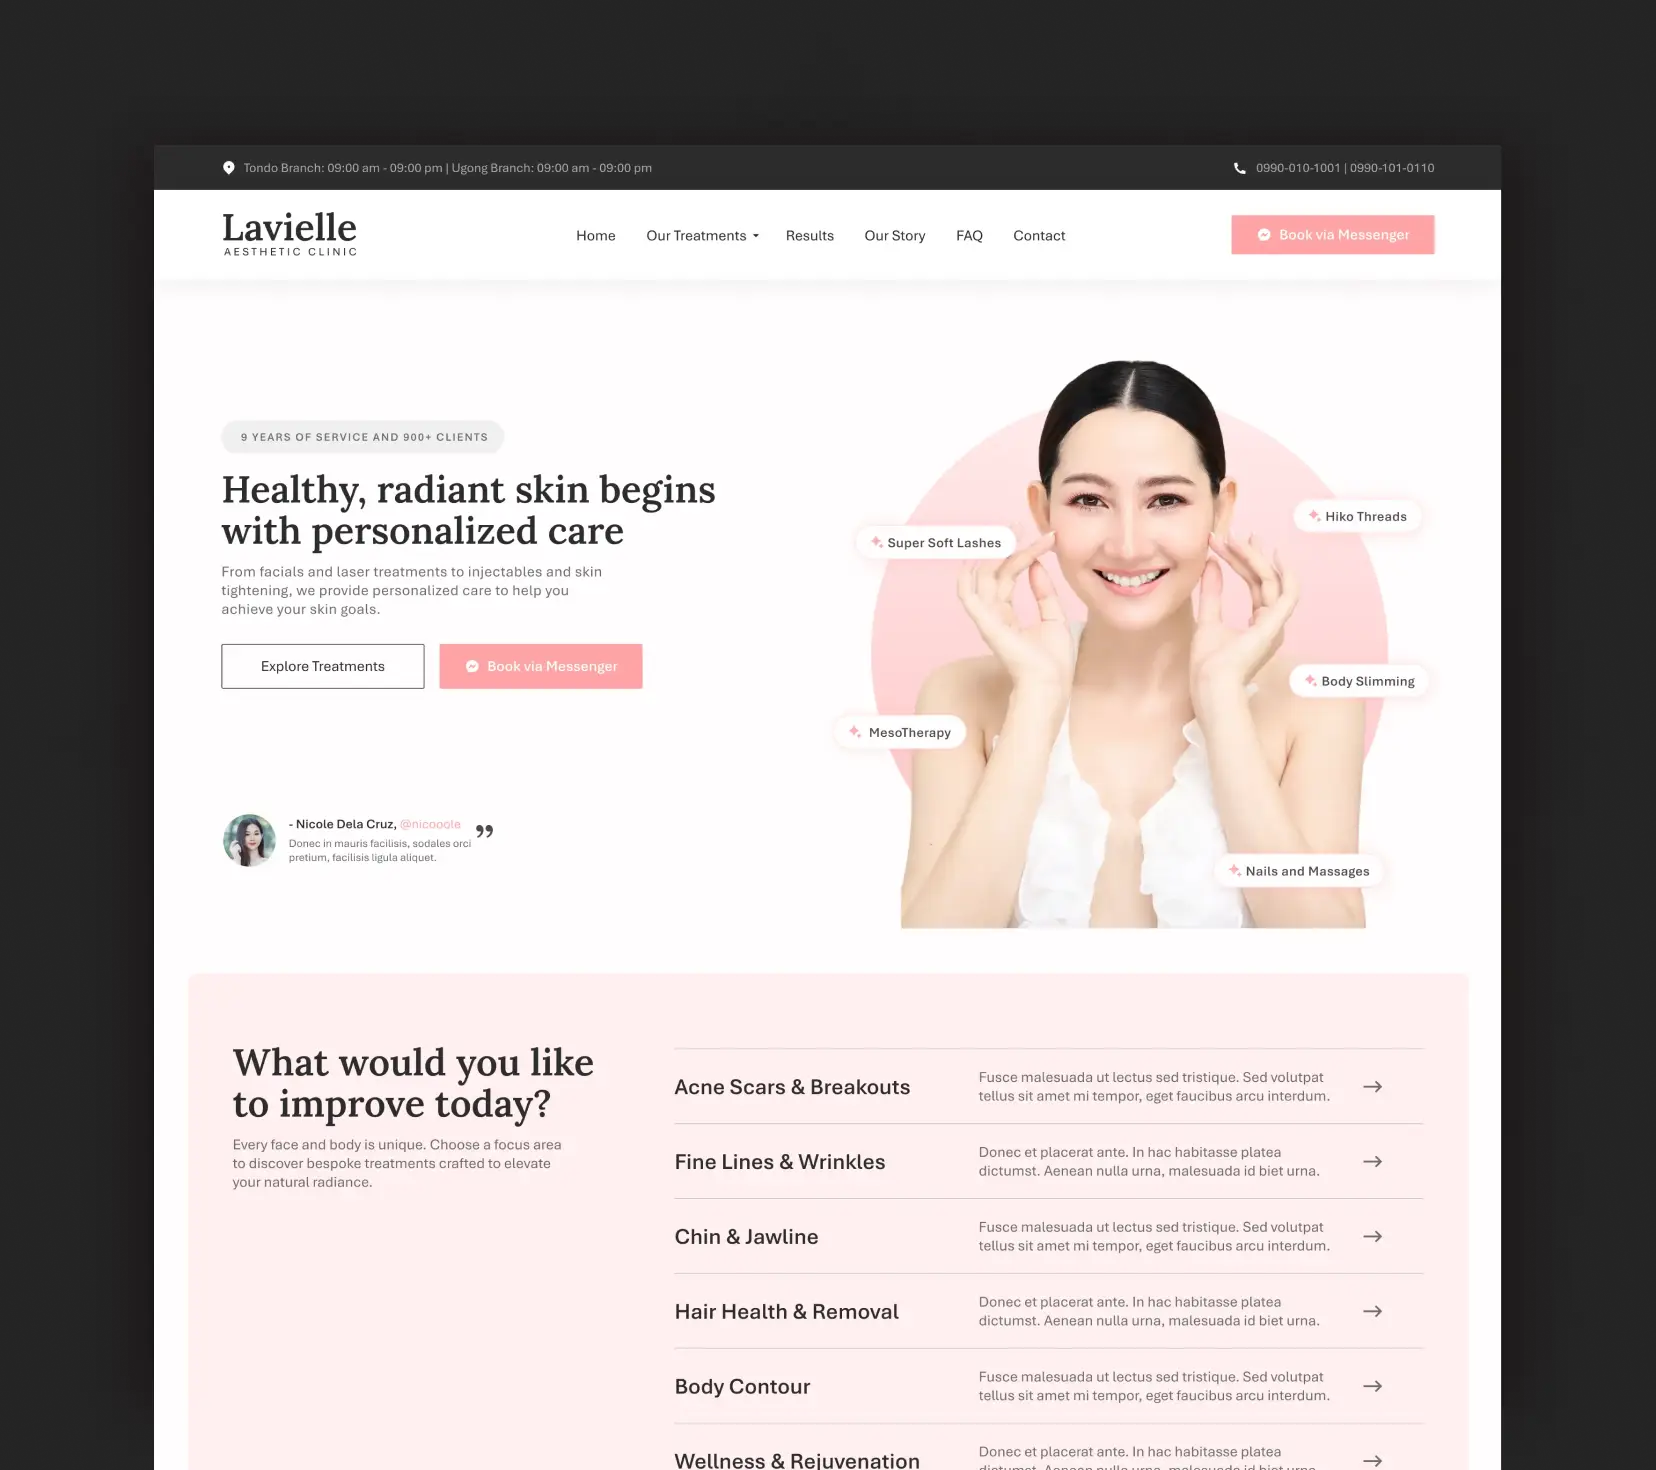
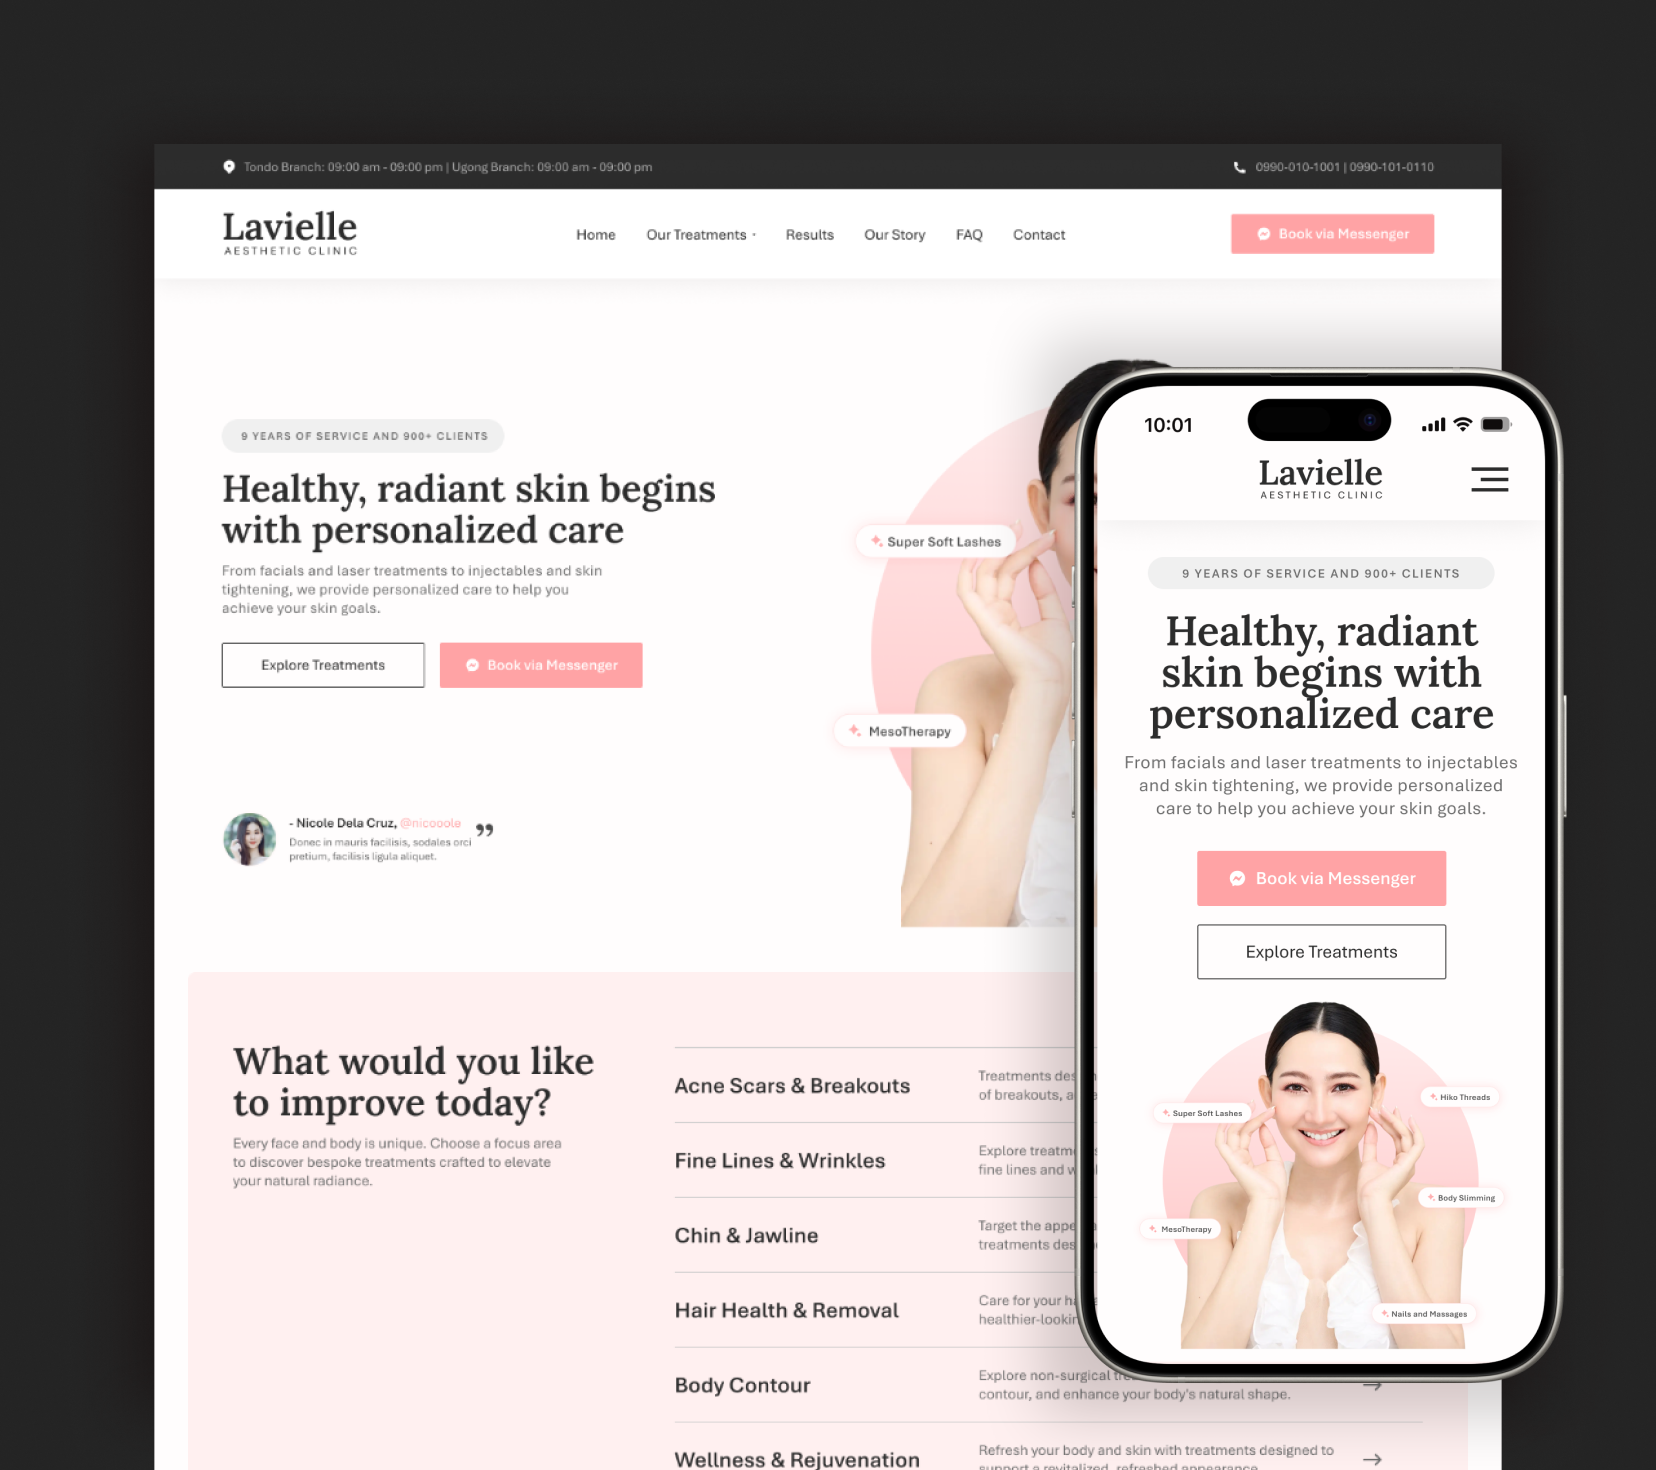
Added: Concept Website on Homepage, additional page

diff --git a/projects/aesthetic-clinic-website.html b/projects/aesthetic-clinic-website.html
@@ -1,0 +1,186 @@
+<!DOCTYPE html>
+<html lang="en">
+
+<head>
+    <meta charset="UTF-8">
+    <meta name="viewport" content="width=device-width, initial-scale=1.0">
+    <title>Aesthetic Clinic Website | Web UI/UX Design | My Projects</title>
+    <meta name="description" content="Aesthetic Clinic Website UI/UX Design">
+    <link rel="stylesheet" href="../css/style.css">
+    <link rel="stylesheet" href="https://cdnjs.cloudflare.com/ajax/libs/remixicon/4.6.0/remixicon.css"
+        integrity="sha512-kJlvECunwXftkPwyvHbclArO8wszgBGisiLeuDFwNM8ws+wKIw0sv1os3ClWZOcrEB2eRXULYUsm8OVRGJKwGA=="
+        crossorigin="anonymous" referrerpolicy="no-referrer" />
+    <link rel="preconnect" href="https://fonts.googleapis.com">
+    <link rel="preconnect" href="https://fonts.gstatic.com" crossorigin>
+    <link
+        href="https://fonts.googleapis.com/css2?family=Inter:ital,opsz,wght@0,14..32,100..900;1,14..32,100..900&display=swap"
+        rel="stylesheet">
+    <link rel="icon" type="image/png" href="../evokerdesign.png">
+
+    <script type="text/javascript">
+        (function (c, l, a, r, i, t, y) {
+            c[a] = c[a] || function () { (c[a].q = c[a].q || []).push(arguments) };
+            t = l.createElement(r); t.async = 1; t.src = "https://www.clarity.ms/tag/" + i;
+            y = l.getElementsByTagName(r)[0]; y.parentNode.insertBefore(t, y);
+        })(window, document, "clarity", "script", "vlewy4hczx");
+    </script>
+</head>
+
+<body>
+
+    <!--  Navbar   -->
+
+    <nav class="main-nav">
+        <div class="container">
+            <div class="logo">
+                <a href="../index.html">Enrique Rosalin</a>
+            </div>
+
+            <div class="main-menu">
+                <ul>
+                    <li>
+                        <a href="../Rosalin_Enrique_UI_Designer_Resume_2026.pdf" target="_blank"
+                            rel="noopener noreferrer">resume<i class="ri-arrow-right-up-line"></i></a>
+                    </li>
+                    <li>
+                        <a href="mailto:nrqrosalin@gmail.com">nrqrosalin@gmail.com<i
+                                class="ri-arrow-right-up-line"></i></a>
+                    </li>
+                </ul>
+            </div>
+        </div>
+    </nav>
+
+    <div class="condensed">
+        <section class="intro-works-padding reveal">
+            <div class="container">
+                <div>
+                    <div>
+                        <p class="project-title">Concept Project</p>
+                        <p class="project-desc">Website UI/UX Design</p>
+                    </div>
+                    <figure class="reveal">
+                        <img src="../images/aesthetic-clinic-website/aesthetic-clinic-hero-image.webp"
+                            alt="Mockup image of Aesthetic Clinic Website" loading="lazy"></img>
+                    </figure>
+                </div>
+            </div>
+        </section>
+
+        <section class="solo-works-padding reveal">
+            <div class="container">
+                <div class="project-center">
+                    <p class="project-heading">01. Project Overview</p>
+                    <p class="project-text">
+                        This concept project explores the design of a digital experience for an aesthetic clinic whose
+                        primary online presence is built around social media. Full case study coming soon. You can
+                        preview the desktop version here: <a
+                            href="https://www.figma.com/proto/5jN1H3RQ5yEIZQZeT9anjg/OP_Sombra---Aesthetic-Clinic-Template?node-id=183-52&viewport=346%2C133%2C0.12&t=h29P5OrxCwhcGoqr-1&scaling=min-zoom&content-scaling=fixed&page-id=183%3A50"
+                            target="_blank" rel="noopener noreferrer" id="ProtoLink">Desktop Version</a>
+                    </p>
+
+                </div>
+            </div>
+        </section>
+
+
+
+        <section class="solo-works-padding">
+            <div class="container work-header reveal">
+                <div>
+                    <p class="work-text">Other Works</p>
+                </div>
+                <div class="hr-container">
+                    <hr>
+                </div>
+            </div>
+        </section>
+
+        <!--Other Works Section-->
+
+        <section class="solo-works-padding reveal">
+            <div class="container">
+                <div class="grid-container">
+                    <div class="img-project">
+                        <a href="../projects/web-ui-design-client01.html"><img
+                                src="../images/client-website-redesign.webp" alt="Skincare Mobile App UI/UX Design"
+                                loading="lazy"></a>
+                        <br><br>
+                        <p class="work-type">Freelance Project | UI/UX Redesign</p>
+                        <p class="work-link-desc">Website Refresh: Modernized a corporate website to improve
+                            usability, navigation
+                            and client
+                            conversion</p>
+                        <a href="../projects/web-ui-design-client01.html" class="work-explore">Explore Project<i
+                                class="ri-arrow-right-up-line explore"></i></a>
+                    </div>
+                    <div class="img-project">
+                        <a href="../projects/portfolio-website-project.html"><img
+                                src="../images/enrique-rosalin-portfolio.webp"
+                                alt="Enrique Rosalin Portfolio Website from Scratch" loading="lazy"></a>
+                        <br><br>
+                        <p class="work-type">Personal Project | Web Design & Development</p>
+                        <p class="work-link-desc">Designed and built a responsive portfolio from scratch that combines
+                            UI
+                            design
+                            with
+                            front-end implementation</p>
+                        <a href="../projects/portfolio-website-project.html" class="work-explore">Explore
+                            Project<i class="ri-arrow-right-up-line explore"></i></a>
+                    </div>
+                </div>
+            </div>
+        </section>
+    </div>
+
+
+
+    <!--Footer-->
+    <footer class="footer-padding">
+        <div class="container">
+            <div class="grid-container">
+                <div>
+                    <p>&copy; 2026 — Enrique Rosalin</p>
+                </div>
+                <div class="icon-social">
+                    <a href="https://ph.pinterest.com/evokerdesign/"><i class="icon-space ri-pinterest-line"></i></a>
+                    <a href="https://dribbble.com/evokerdesign"><i class="icon-space ri-dribbble-line"></i></a>
+                    <a href="https://www.instagram.com/evokerdesign/"><i class="icon-space ri-instagram-line"></i></a>
+                    <a href="https://www.facebook.com/nrique.rosalin"><i class="icon-space ri-facebook-line"></i></a>
+                </div>
+            </div>
+        </div>
+    </footer>
+
+
+    <script>
+        window.addEventListener('scroll', function () {
+            const nav = document.querySelector('.main-nav');
+            if (window.scrollY > 10) {
+                nav.classList.add('scrolled');
+            } else {
+                nav.classList.remove('scrolled');
+            }
+        });
+    </script>
+
+    <script>
+        const reveals = document.querySelectorAll('.reveal');
+
+        const observer = new IntersectionObserver((entries) => {
+            entries.forEach(entry => {
+                if (entry.isIntersecting) {
+                    entry.target.classList.add('active');
+                }
+            });
+        }, {
+            threshold: 0.15
+        });
+
+        reveals.forEach(reveal => {
+            observer.observe(reveal);
+        });
+    </script>
+</body>
+
+</html>

diff --git a/index.html b/index.html
@@ -81,7 +81,7 @@
     <section class="work-padding">
         <div class="container work-header reveal">
             <div>
-                <p class="work-text">Recent Work</p>
+                <p class="work-text">Selected Work</p>
             </div>
             <div class="hr-container">
                 <hr>
@@ -110,39 +110,61 @@
     </section>
 
 
+
     <section class="recent-works-padding">
         <div class="container">
             <div class="grid-container reveal">
                 <div class="img-project">
-                    <a href="./projects/kayakana-mobile-app.html"><img src="./images/Kayakana-Mobile-App.webp"
-                            alt="Skincare Mobile App UI/UX Design" loading="lazy"></a>
+                    <a href="./projects/aesthetic-clinic-website.html"><img src="./images/Aesthetic-Clinic-WebDesign.webp"
+                            alt="Aesthetic Clinic Concept Website and UI/UX Design" loading="lazy"></a>
                 </div>
                 <div class="onyourleft">
+                    <p class="work-type">Aesthetic Clinic Concept | UI/UX Design</p>
+                    <p class="work-desc">Designed a search-friendly, trust-focused website for an aesthetic
+                        clinic transitioning from a social-first digital presence.</p>
+                    <a href="./projects/aesthetic-clinic-website.html" class="work-explore">View Concept<i class="ri-arrow-right-up-line explore"></i></a>
+                </div>
+            </div>
+        </div>
+    </section>
+
+
+
+    <section class="recent-works-padding">
+        <div class="container">
+            <div class="grid-container reveal">
+                <div>
                     <p class="work-type">Concept Project | UI/UX Design</p>
                     <p class="work-desc">Created a skincare experience through a companion app that connects
                         assessments, routines and product tracking</p>
                     <a href="./projects/kayakana-mobile-app.html" class="work-explore">Explore Project<i
                             class="ri-arrow-right-up-line explore"></i></a>
                 </div>
+                <div class="img-project">
+                    <a href="./projects/kayakana-mobile-app.html"><img src="./images/Kayakana-Mobile-App.webp"
+                            alt="Skincare Mobile App UI/UX Design" loading="lazy"></a>
+                </div>
             </div>
         </div>
     </section>
 
+
+
     <section class="recent-works-padding">
         <div class="container">
             <div class="grid-container reveal">
-                <div>
+                <div class="img-project">
+                    <a href="./projects/portfolio-website-project.html"><img
+                            src="./images/enrique-rosalin-portfolio.webp"
+                            alt="Enrique Rosalin Portfolio Website from Scratch" loading="lazy"></a>
+                </div>
+                <div class="onyourleft">
                     <p class="work-type">Personal Project | Web Design & Development</p>
                     <p class="work-desc">Designed and built a responsive portfolio from scratch that combines UI design
                         with
                         front-end implementation</p>
                     <a href="./projects/portfolio-website-project.html" class="work-explore">Explore
                         Project<i class="ri-arrow-right-up-line explore"></i></a>
-                </div>
-                <div class="img-project">
-                    <a href="./projects/portfolio-website-project.html"><img
-                            src="./images/enrique-rosalin-portfolio.webp"
-                            alt="Enrique Rosalin Portfolio Website from Scratch" loading="lazy"></a>
                 </div>
             </div>
         </div>

diff --git a/css/style.css b/css/style.css
@@ -67,6 +67,17 @@ figcaption {
     /* border: 1px solid turquoise; */
 }
 
+#ProtoLink {
+    text-decoration: none;
+    color: var(--primary-color);
+    display: inline-block;
+    vertical-align: bottom;
+}
+
+#ProtoLink:hover {
+    color: #f1a232;
+}
+
 /* //////////////////////////////////////////////////////////////////////////////////////////////////////////////////////////////////////////////////////////////////////////////////////////////// */
 
 /* Navbar */
